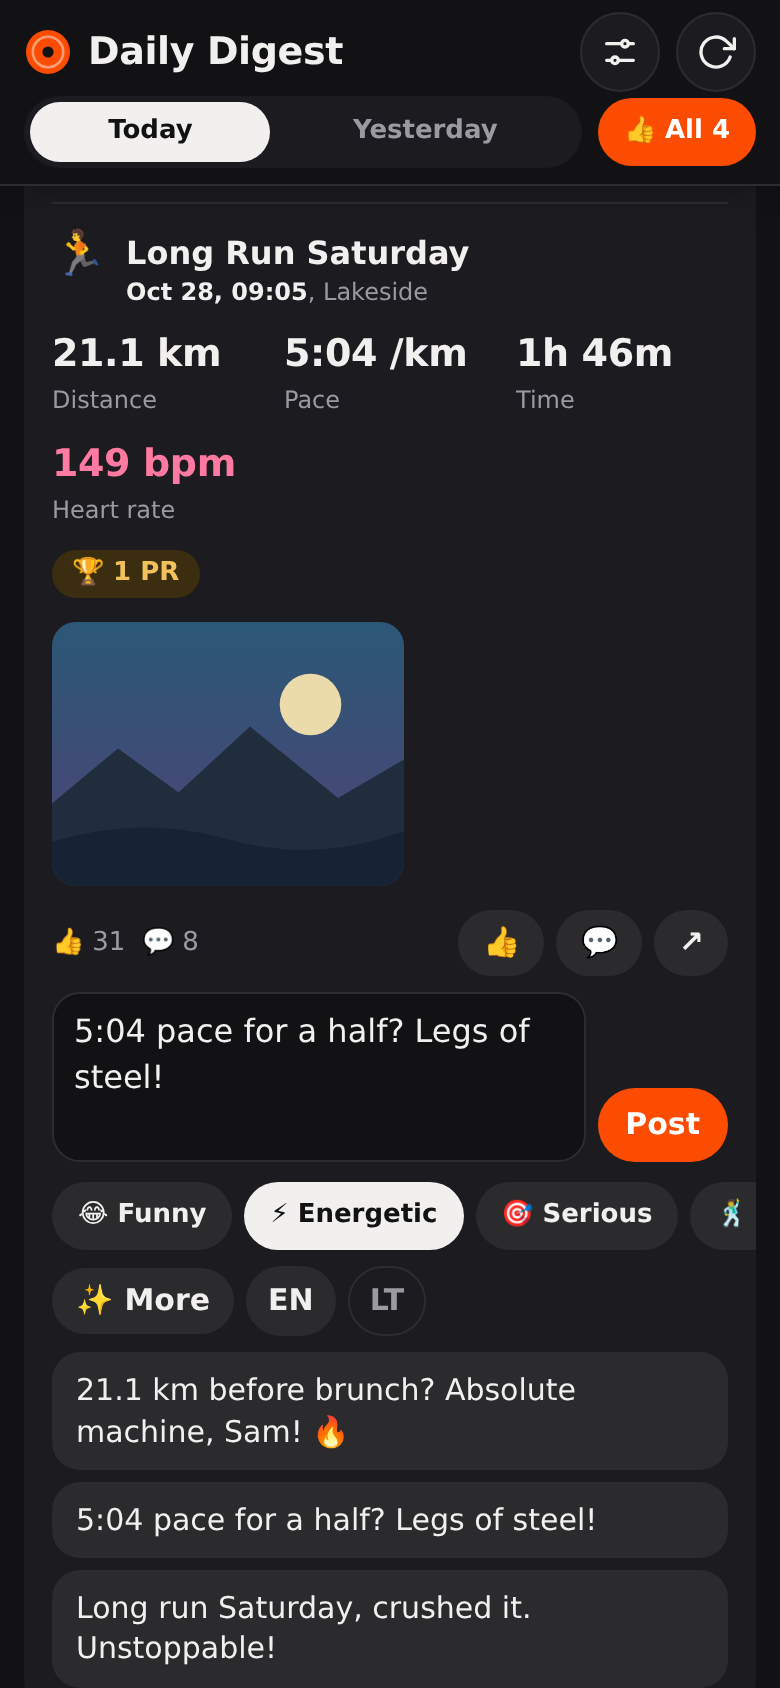
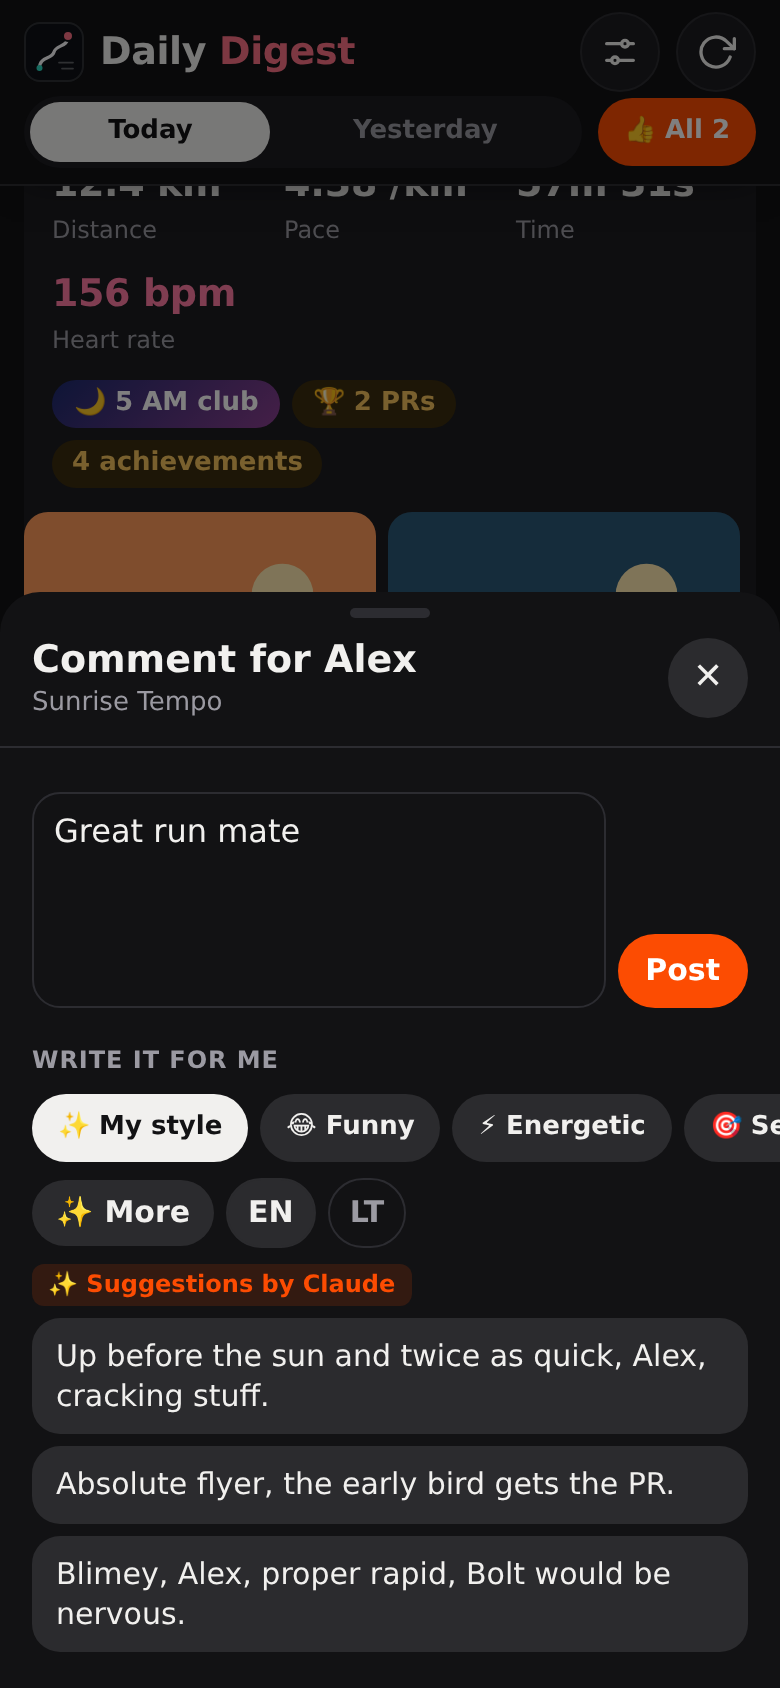
Daily Digest 1.15.1: remove the Custom mood and the Improve my draft row

diff --git a/Strava Daily Digest.js b/Strava Daily Digest.js
@@ -23,7 +23,7 @@
 // Fixed choices. Everything a user may want different lives in Settings (the sliders icon in the header):
 // see the CONFIG registry and the settings defaults further down (github.com/gadominas/app-blueprints · settings).
 const APP = 'StravaFeed';   // the app's folder in Scriptable's documents (settings.json lives there)
-// Applied to every AI comment and rewrite (Settings › Comment writing); the person can change it there.
+// Applied to every AI comment (Settings › Comment writing); the person can change it there.
 const DEFAULT_COMMENT_RULES = `Role & Tone: Act as an encouraging, witty, and intelligent British running mate, using natural, conversational British phrasing.
 Task: Write exactly one short, punchy, and funny sentence to congratulate a runner on their workout.
 Content Requirements:
@@ -37,19 +37,18 @@ const DIGEST = {
   DEBUG_DUMP: false,       // save raw feed JSON to Scriptable/strava-feed-debug.json
   AI: {                    // ✨ comment ideas from Claude or OpenAI (your own key; Settings › AI settings)
     LANGUAGES: [['EN', 'English'], ['LT', 'Lithuanian']],
-    MODES: [               // comment moods offered in the comment box; 'custom' uses your own prompt
+    MODES: [               // comment moods offered in the comment composer
       { key: 'mystyle', label: '✨ My style' },   // your instructions plus the style learned from your comments
       { key: 'funny', label: '😂 Funny', style: 'funny and warm, like a teammate teasing with affection' },
       { key: 'energetic', label: '⚡ Energetic', style: 'high-energy hype, like a coach cheering from the roadside: punchy, exclamation marks welcome' },
       { key: 'serious', label: '🎯 Serious', style: 'sincere and respectful, specific praise of the effort and the numbers, no jokes' },
       { key: 'funky', label: '🕺 Funky', style: 'playful and quirky, groovy slang and wordplay, a little absurd' },
-      { key: 'custom', label: '✎ Custom' },
     ],
   },
 };
 
 // This build's version. When releasing, bump it and add a matching entry to releases.json (see docs/RELEASING.md).
-const VERSION = '1.15.0';
+const VERSION = '1.15.1';
 const APP_ID = 'stravafeed';   // unique per app, never changes
 
 // ───────── Blueprints ─────────
@@ -270,7 +269,6 @@ async function main() {
     }
     if (head === 'setlang') { if (setSetting('aiLang', p.lang) !== null) saveSettings(); return; }
     if (head === 'setmode') { if (setSetting('aiMode', p.mode) !== null) saveSettings(); return; }
-    if (head === 'setcustom') { setSetting('aiCustom', p.text); saveSettings(); return; }
     // Settings (app-blueprints · settings): every change is applied and saved at once; the reply is the fresh state.
     if (head === 'settings-get' || head === 'set' || head === 'cfg') {
       let ok = true, msg = '';
@@ -368,17 +366,7 @@ async function main() {
         const a = feed.get(p.id);
         if (!a) msg = 'Activity not found.';
         else {
-          const mode = p.mode || settings.aiMode, custom = cleanPrompt(p.custom);
-          if (mode === 'custom' && custom && custom !== settings.aiCustom) { settings.aiCustom = custom; saveSettings(); }
-          const r = await aiSuggest(a, p.lang || settings.aiLang, p.hint || '', mode, custom);
-          if (r.needKey) msg = 'NEED_KEY';
-          else { ok = true; msg = JSON.stringify({ comments: r.comments, by: r.by }); }
-        }
-      } else if (head === 'improve') {
-        const a = feed.get(p.id) || feed.mineGet(p.id);
-        if (!a) msg = 'Activity not found.';
-        else {
-          const r = await aiImprove(a, p.lang || settings.aiLang, String(p.draft || '').trim().slice(0, 600), String(p.kind || 'rephrase'));
+          const r = await aiSuggest(a, p.lang || settings.aiLang, p.hint || '', p.mode || settings.aiMode);
           if (r.needKey) msg = 'NEED_KEY';
           else { ok = true; msg = JSON.stringify({ comments: r.comments, by: r.by }); }
         }
@@ -668,36 +656,15 @@ async function aiComments(a, system) {
   return { comments, by: PROVIDERS[provider] };
 }
 
-async function aiSuggest(a, language, hint, mode, custom) {
+async function aiSuggest(a, language, hint, mode) {
   if (!aiKey()) return { needKey: true };
   const parts = [commentBrief(language, cfg('suggestions'))];
   if (mode === 'mystyle') parts.push(styleBlock());
-  else if (mode === 'custom' && custom) parts.push(`For these options, also: "${custom}".`);
   else {
     const m = DIGEST.AI.MODES.find(x => x.key === mode && x.style);
     if (m) parts.push(`Mood for these options: ${m.style}. Where this mood clashes with the user's instructions about tone, use the mood; every other instruction still applies.`);
   }
   if (hint) parts.push(`The user's own draft idea; keep its spirit: "${hint}".`);
-  parts.push(COMMENT_SAFETY, COMMENT_JSON);
-  return aiComments(a, parts.join('\n'));
-}
-
-// Rewrites a draft you already have: punchier, funnier, shorter, warmer, in your style, or reworded.
-const IMPROVE_KINDS = {
-  punchier: 'punchier: tighter, stronger words, more impact',
-  funnier: 'funnier: add wit or a clever sports joke',
-  shorter: 'shorter: as few words as possible with the same message',
-  warmer: 'warmer: more heartfelt and encouraging',
-  mystyle: "written in the user's own style (described below)",
-  rephrase: 'reworded: the same message in fresh words',
-};
-async function aiImprove(a, language, draft, kind) {
-  if (!aiKey()) return { needKey: true };
-  const how = IMPROVE_KINDS[kind] || IMPROVE_KINDS.rephrase;
-  const parts = [commentBrief(language, cfg('suggestions')),
-    `Rewrite the user's draft comment so it is ${how}. Keep what it says and any names in it. Each option is a full replacement for the draft.`,
-    `DRAFT:\n${draft}`];
-  if (kind === 'mystyle') parts.push(styleBlock());
   parts.push(COMMENT_SAFETY, COMMENT_JSON);
   return aiComments(a, parts.join('\n'));
 }
@@ -836,7 +803,7 @@ const settings = {
   includeMe: false, enrich: true, widgetNames: true,
   checkUpdates: true,   // offer new versions from GitHub (asks again 2 days after "Later")
   theme: "auto", density: "comfortable", font: "sans", textSize: 1,
-  aiLang: DIGEST.AI.LANGUAGES[0][1], aiMode: DIGEST.AI.MODES[0].key, aiCustom: "",   // remembered picks, also set inline
+  aiLang: DIGEST.AI.LANGUAGES[0][1], aiMode: DIGEST.AI.MODES[0].key,   // remembered picks, also set in the composer
   commentRules: DEFAULT_COMMENT_RULES,   // instructions for every AI comment
   styleProfile: "", styleMeta: null,     // written by "Learn my style" from your own comments
   cfg: {},
@@ -849,7 +816,7 @@ const SET_KEYS = {
   theme: [v => v === "auto" || !!PALETTES[v], ""], density: [v => ["comfortable", "compact", "tiny"].includes(v), "render"],
   font: [v => ["sans", "serif"].includes(v), ""], textSize: [v => [0.92, 1, 1.12, 1.25].includes(+v), ""],
   aiLang: [v => DIGEST.AI.LANGUAGES.some(l => l[1] === v), "render"], aiMode: [v => DIGEST.AI.MODES.some(m => m.key === v), "render"],
-  aiCustom: ["text", "render"], commentRules: ["rules", ""],
+  commentRules: ["rules", ""],
 };
 // Returns the effect ('', 'render', 'reload'), or null when the key or value isn't allowed.
 function setSetting(k, v) {
@@ -876,7 +843,7 @@ async function loadSettings() {
         if (/^\d+$/.test(String(o.athleteId || "").trim())) settings.cfg.athleteId = String(o.athleteId).trim();
       }
     } catch (e) {}
-    for (const [k, kc] of [["aiLang", KC_AI_LANG], ["aiMode", KC_AI_MODE], ["aiCustom", KC_AI_CUSTOM]]) if (Keychain.contains(kc)) settings[k] = Keychain.get(kc);
+    for (const [k, kc] of [["aiLang", KC_AI_LANG], ["aiMode", KC_AI_MODE]]) if (Keychain.contains(kc)) settings[k] = Keychain.get(kc);
     if (saveSettings()) for (const kc of [KC_SETTINGS_OLD, KC_AI_LANG, KC_AI_MODE, KC_AI_CUSTOM]) if (Keychain.contains(kc)) Keychain.remove(kc);
   }
   // A stale or hand-edited file can't break the app: anything invalid falls back to its default.
@@ -2425,7 +2392,6 @@ function actHtml(a, p) {
       <div class="crow"><textarea rows="3" placeholder="${aiKey() ? 'Write a comment, or tap Suggest' : 'Write a comment'}"></textarea><button data-comment="${id}">Post</button></div>
       <div class="modes" role="group" aria-label="Comment mood">${DIGEST.AI.MODES.map(m =>
         `<button class="mode${m.key === settings.aiMode ? ' on' : ''}" data-mode="${esc(m.key)}">${esc(m.label)}</button>`).join('')}</div>
-      <div class="customrow"${settings.aiMode === 'custom' ? '' : ' hidden'}><input class="aicustom" type="text" maxlength="200" placeholder="Describe the comments you want, e.g. tease about the rain" value="${esc(settings.aiCustom)}"></div>
       <div class="ai"><button class="small" data-suggest="${id}">✨ Suggest 3</button>${DIGEST.AI.LANGUAGES.map(([code, name]) =>
         `<button class="lng${name === settings.aiLang ? ' on' : ''}" data-lang="${esc(name)}">${esc(code)}</button>`).join('')}</div>
       <div class="sugs"></div>
@@ -2647,11 +2613,8 @@ body.loading .loadst{display:block}
 .incs{margin-top:0}
 .incs textarea{font-size:16px;min-height:100px;line-height:1.4}
 .cslab{font-size:12px;font-weight:700;letter-spacing:.04em;text-transform:uppercase;color:var(--mut);margin:18px 0 0}
-.imps{display:flex;gap:6px;margin:8px -16px 0;padding:0 16px;overflow-x:auto;scrollbar-width:none}
-.imps::-webkit-scrollbar{display:none}
 .incs .modes{margin:8px -16px 0;padding:0 16px}
-.mode.imp:disabled{opacity:.5;background:var(--soft)}
-body.nokey .impr,body.nokey .incs .cslab{display:none}
+body.nokey .incs .cslab{display:none}
 #cfgsheet textarea.rules{display:block;width:100%;box-sizing:border-box;min-height:200px;margin-top:8px;font-size:15px;line-height:1.45}
 .stylebtns{display:flex;align-items:center;gap:10px;margin-top:10px;flex-wrap:wrap}
 .styleprof{margin-top:10px;padding:10px 12px;border-radius:12px;background:var(--soft)}
@@ -2808,9 +2771,6 @@ body.nokey .impr,body.nokey .incs .cslab{display:none}
 .modes::-webkit-scrollbar{display:none}
 .mode{flex:none;background:var(--soft);color:var(--fg);padding:7px 12px;font-size:calc(13px * var(--ts));font-weight:600;border:1px solid transparent}
 .mode.on{background:var(--fg);color:var(--bg)}
-.customrow{margin-top:8px}.customrow[hidden]{display:none}
-.aicustom{width:100%;font:inherit;border-radius:12px;border:1px solid var(--line);background:var(--bg);color:var(--fg);padding:9px 11px}
-.aicustom:focus{outline:2px solid var(--accent);outline-offset:-1px}
 .lng{background:transparent;color:var(--mut);padding:6px 10px;border:1px solid var(--line)}
 .lng.on{background:var(--soft);color:var(--fg);border-color:var(--soft)}
 .sugs{display:flex;flex-direction:column;gap:6px;margin-top:8px}
@@ -2980,7 +2940,7 @@ body.d-compact .stats,body.d-tiny .stats{margin-top:8px;gap:8px}
 #aisheet .utab th:not(:first-child),#aisheet .utab td:not(:first-child){text-align:right;white-space:nowrap}
 .badge-ai{display:inline-block;font-size:12px;font-weight:700;color:var(--accent);background:color-mix(in srgb,var(--accent) 14%,transparent);border-radius:6px;padding:2px 8px}
 .badge-ex{display:inline-block;font-size:12px;font-weight:600;color:var(--mut);border:1px dashed var(--mut);border-radius:6px;padding:1px 8px}
-body.nokey .ai,body.nokey .modes,body.nokey .customrow{display:none!important}
+body.nokey .ai,body.nokey .modes{display:none!important}
 .sugs .badge-ai{align-self:flex-start}
 </style></head><body class="d-${look.density}${aiKey() ? '' : ' nokey'}">
 ${launchScreen()}${content}
@@ -3036,23 +2996,14 @@ function send(action,params,cb){
 }
 function pump(){ if(busy||!q.length) return; busy=true; location.href=q.shift(); setTimeout(function(){busy=false;pump();},300); }
 var aiLang=document.querySelector('.lng.on')?document.querySelector('.lng.on').dataset.lang:'';
-var aiMode=document.querySelector('.mode.on')?document.querySelector('.mode.on').dataset.mode:'funny';
+var aiMode=document.querySelector('.mode.on')?document.querySelector('.mode.on').dataset.mode:'mystyle';
 function setMode(mode, from){
   aiMode=mode;
   document.querySelectorAll('.mode').forEach(function(b){ b.classList.toggle('on', b.dataset.mode===mode); });
-  document.querySelectorAll('.customrow').forEach(function(r){ r.hidden=(mode!=='custom'); });
   send('setmode',{mode:mode});
-  if(mode==='custom'&&from){ var inp=from.closest('.cbox').querySelector('.aicustom'); if(inp) inp.focus(); }
 }
-document.addEventListener('change',function(e){
-  if(!e.target.classList||!e.target.classList.contains('aicustom')) return;
-  var v=e.target.value;
-  document.querySelectorAll('.aicustom').forEach(function(i){ if(i!==e.target) i.value=v; });
-  send('setcustom',{text:v});
-});
-// ── the comment composer: a pop-up with the draft, rewrites of it, and AI ideas ──
+// ── the comment composer: a pop-up with the draft and AI ideas ──
 var DRAFTS={};
-var IMPROVE=[['punchier','👊 Punchier'],['funnier','😂 Funnier'],['shorter','✂ Shorter'],['warmer','🤗 Warmer'],['mystyle','✨ In my style'],['rephrase','🔁 Rephrase']];
 function composerSheet(){
   var ov=document.getElementById('csheet');
   if(!ov){
@@ -3073,10 +3024,8 @@ function openComposer(art){
   ov.querySelector('.csh').innerHTML='<div class="mtt"><b>Comment for '+escH(art.dataset.who||'your friend')+'</b><small>'+escH(ttl)+'</small></div><button class="mbtn" data-act="cs-close" aria-label="Close">✕</button>';
   var box=src.cloneNode(true); box.hidden=false; box.classList.add('incs');
   var ta=box.querySelector('textarea'); ta.rows=4; ta.value=DRAFTS[id]||''; ta.setAttribute('aria-label','Your comment');
-  var imp=document.createElement('div'); imp.className='impr';
-  imp.innerHTML='<div class="cslab">Improve my draft</div><div class="imps" role="group" aria-label="Improve my draft">'+IMPROVE.map(function(x){ return '<button class="mode imp" data-improve="'+x[0]+'">'+x[1]+'</button>'; }).join('')+'</div>';
   var lab=document.createElement('div'); lab.className='cslab'; lab.textContent='Write it for me';
-  var crow=box.querySelector('.crow'); crow.parentNode.insertBefore(imp,crow.nextSibling); imp.parentNode.insertBefore(lab,imp.nextSibling);
+  var crow=box.querySelector('.crow'); crow.parentNode.insertBefore(lab,crow.nextSibling);
   var body=ov.querySelector('.csb'); body.innerHTML=''; body.appendChild(box); body.scrollTop=0;
   ov.hidden=false; document.body.style.overflow='hidden';
   setTimeout(function(){ try{ ta.focus(); }catch(e){} },250);
@@ -3101,25 +3050,11 @@ function aiReply(box,ok,msg,label){
   list.forEach(function(c){ var b=document.createElement('button'); b.className='sug'; b.dataset.sug=''; b.textContent=c; sugs.appendChild(b); });
   return true;
 }
-function improve(btn){
-  var box=btn.closest('.cbox'), ta=box.querySelector('textarea'), draft=ta.value.trim(), ov=btn.closest('#csheet');
-  if(!draft){ toast('Write or pick a comment first, then improve it'); ta.focus(); return; }
-  if(box.dataset.busy||!ov) return;
-  box.dataset.busy='1'; var was=btn.textContent; btn.textContent='…'+was.replace(/^\S+/,'');
-  box.querySelectorAll('[data-improve]').forEach(function(b){ b.disabled=true; });
-  send('improve',{id:ov.dataset.id,draft:draft,kind:btn.dataset.improve,lang:aiLang},function(ok,msg){
-    delete box.dataset.busy; btn.textContent=was;
-    box.querySelectorAll('[data-improve]').forEach(function(b){ b.disabled=false; });
-    aiReply(box,ok,msg,'Rewrites');
-  });
-}
 function suggest(btn){
   if(btn.disabled) return;
   var box=btn.closest('.cbox'), sugs=box.querySelector('.sugs'), ta=box.querySelector('textarea');
-  var cin=box.querySelector('.aicustom'), custom=cin?cin.value.trim():'';
-  if(aiMode==='custom'&&!custom){ toast('Describe the comments you want first'); if(cin) cin.focus(); return; }
   btn.disabled=true; btn.dataset.busy='1'; btn.textContent='✨ Thinking…';
-  send('suggest',{id:btn.dataset.suggest,lang:aiLang,hint:ta.value.trim(),mode:aiMode,custom:custom},function(ok,msg){
+  send('suggest',{id:btn.dataset.suggest,lang:aiLang,hint:ta.value.trim(),mode:aiMode},function(ok,msg){
     btn.disabled=false; delete btn.dataset.busy; btn.textContent='✨ More';
     if(!aiReply(box,ok,msg,'Suggestions')&&!ok&&msg==='NEED_KEY') btn.textContent='✨ Suggest';
   });
@@ -3447,7 +3382,7 @@ function writingHTML(){
   var when=meta.at?new Date(meta.at).toLocaleDateString(undefined,{day:'numeric',month:'short'}):'';
   return '<h3 class="sec">Comment writing</h3>'+
     '<div class="cfg'+(changed?' ch':'')+'"><div class="cfg-h"><b>Instructions for every AI comment</b>'+(changed?'<button class="link small" data-act="rules-reset">Reset to default</button>':'')+'</div>'+
-      '<small class="muted">Used for every suggestion and rewrite. They win over the app’s own defaults.</small>'+
+      '<small class="muted">Used for every AI comment idea. They win over the app’s own defaults.</small>'+
       '<textarea class="cfgsel rules" data-k="commentRules" rows="9" maxlength="2000" aria-label="Instructions for every AI comment">'+escH(rules)+'</textarea></div>'+
     (sec?sec.items.map(fieldHTML).join(''):'')+
     '<div class="cfg"><div class="cfg-h"><b>Learn my style</b></div>'+
@@ -3472,7 +3407,6 @@ function renderCfg(){
     '<h3 class="sec">AI comments</h3>'+
       '<div class="srow"><div class="grow"><b>Keys, models and token usage</b><small id="s-aistatus">'+(SET.hasKey?escH(SET.aiStatus):'Add a Claude or OpenAI key for ✨ comment ideas')+'</small></div><button class="sm" data-act="ai-open">AI settings</button></div>'+
       pickRow('aiMode','Default mood',SET.modes.map(function(m){ return [m.key,m.label]; }))+
-      '<div class="cfg"><div class="cfg-h"><b>Custom prompt</b></div><small class="muted">Used when the mood is ✎ Custom</small><textarea class="cfgsel" data-k="aiCustom" rows="3" maxlength="200" placeholder="e.g. tease about the rain, keep it short">'+escH(SET.settings.aiCustom||'')+'</textarea></div>'+
       pickRow('aiLang','Language',SET.langs.map(function(l){ return [l[1],l[1]]; }))+
     writingHTML()+
     '<h3 class="sec">Updates</h3>'+
@@ -3815,7 +3749,6 @@ document.addEventListener('click',function(e){
     aiLang=t.dataset.lang; send('setlang',{lang:aiLang}); return;
   }
   if(t.dataset.suggest) return suggest(t);
-  if(t.dataset.improve) return improve(t);
   if(t.dataset.act==='cs-close') return closeComposer();
   if(t.dataset.mode) return setMode(t.dataset.mode, t);
   if(t.dataset.sug!==undefined){

diff --git a/README.md b/README.md
@@ -10,7 +10,7 @@ An iPhone and iPad script for [Scriptable](https://scriptable.app).
   <img src="docs/screenshots/01-daily-digest.png" width="180" alt="Daily digest: athletes grouped with stats, badges and photos">
   <img src="docs/screenshots/launch.png" width="180" alt="Launch screen: the route draws itself, then the tagline Catch up. Cheer. Move on.">
   <img src="docs/screenshots/03-kudos-to-everyone.png" width="180" alt="Give kudos to everyone, one each">
-  <img src="docs/screenshots/04-ai-comment-suggestions.png" width="180" alt="AI comment suggestions">
+  <img src="docs/screenshots/04-ai-comment-suggestions.png" width="180" alt="Comment composer with AI ideas in ✨ My style">
 </p>
 
 > Screenshots use invented athletes and illustrative photos. In the widget screenshot, real names are pixelated.
@@ -48,7 +48,7 @@ The bigger your feed, the more time it saves.
 | 🏃 **Fun loading screen** | While the feed loads, a runner collects posts onto a reading pile and a counter ticks up to the number of posts read. |
 | 🔔 **Update reminders** | When a new version is out, the digest shows its three best features and offers a one-tap update. **Later** hides the reminder for two days. |
 | 🏃 **Your activities on top** | Your latest activities sit above everyone else's, with the kudos and comments you received. Tap one to see who gave kudos, read the comments and like them, without opening the Strava app. |
-| 💬 **Comments that sound like you** | 💬 opens a composer with AI ideas and one-tap rewrites of your draft. Set your instructions once in Settings, and let ✨ My style learn how you write from your own past comments. |
+| 💬 **Comments that sound like you** | 💬 opens a composer with AI comment ideas in your chosen mood. Set your instructions once in Settings, and let ✨ My style learn how you write from your own past comments. |
 | 🔎 **Peek, then expand** | In the Compact and Tiny layouts, every line shows distance, pace, trophies and photo counts. Tap to open the full activity in place. |
 | ⚙ **Settings in the app** | Tap the sliders icon in the header: colours (six palettes or Auto), layout (Comfortable, Compact with tap-to-expand cards, or one-line Tiny), text size and font, plus the digest's own choices and tunables, each with Reset. Changes apply at once. |
 | 🤖 **Claude or OpenAI** | **⚙ › AI settings**: add a Claude or OpenAI key, pick any model your key can use, test the connection and see your token usage per day, feature and model. |
@@ -77,7 +77,6 @@ The bigger your feed, the more time it saves.
   <img src="docs/screenshots/15-kudos-and-comments.png" width="230" alt="Your activity's sheet: who gave kudos, and comments you can like">
 </p>
 <p align="center">
-  <img src="docs/screenshots/16-comment-composer.png" width="230" alt="Comment composer: a draft, Improve my draft rewrites and AI moods including My style">
   <img src="docs/screenshots/17-comment-writing-settings.png" width="230" alt="Settings, Comment writing: instructions for every AI comment, comments to learn from and the learned style">
 </p>
 
